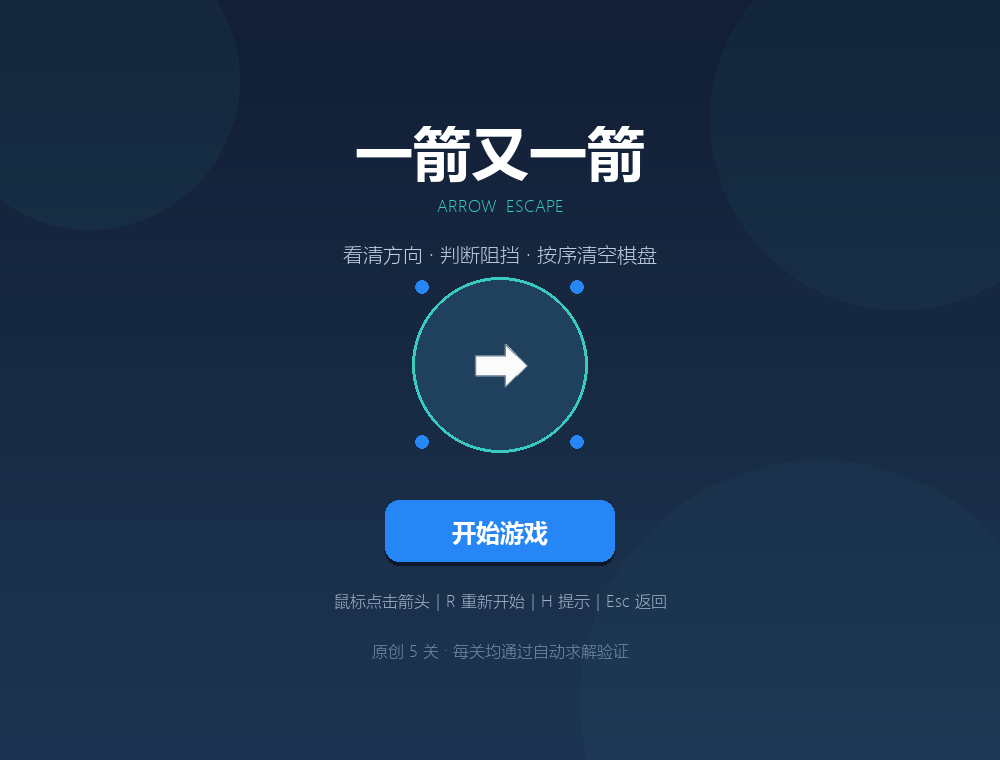
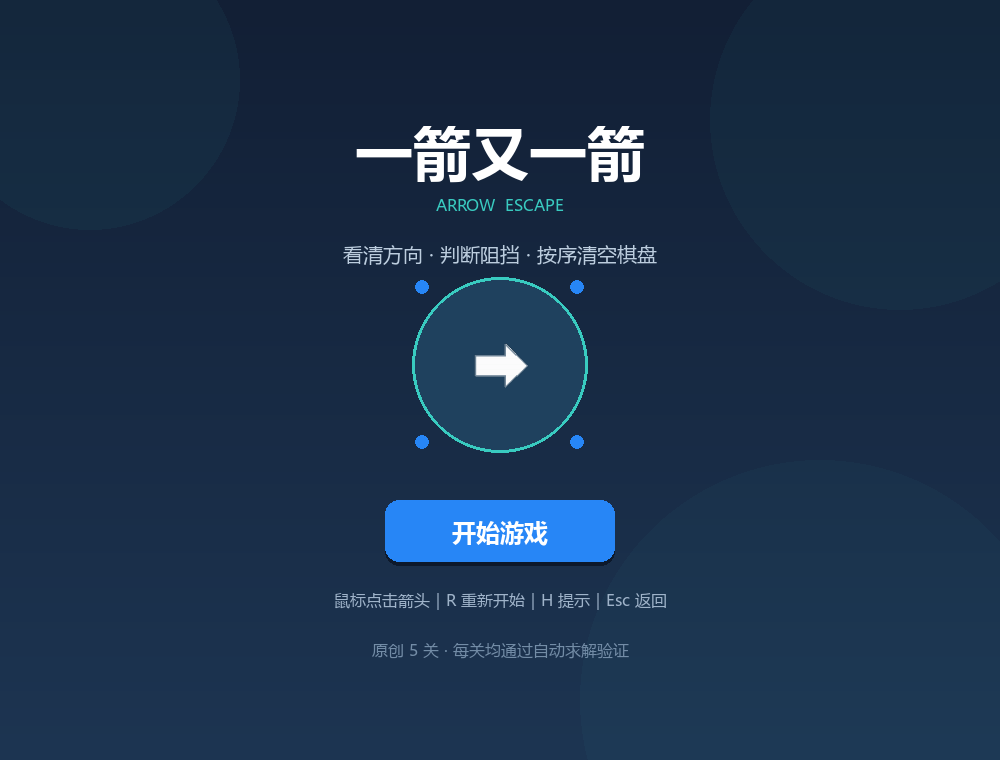
fix: 兼容Windows系统字体加载

diff --git a/arrow_game/app.py b/arrow_game/app.py
@@ -3,6 +3,7 @@
 from __future__ import annotations
 
 import math
+import os
 from dataclasses import dataclass
 from pathlib import Path
 
@@ -35,7 +36,11 @@ WHITE = (255, 255, 255)
 
 
 def make_font(size: int, bold: bool = False) -> pygame.font.Font:
-    """优先选择包含中文字符的系统字体。"""
+    """优先选择包含中文字符的系统字体。
+
+    某些 Windows + Python 3.13 环境下，Pygame 的 ``SysFont`` 无法正确
+    处理字体名称列表，因此这里逐个查找字体文件，再交给 ``Font`` 加载。
+    """
 
     candidates = [
         "Microsoft YaHei UI",
@@ -44,7 +49,35 @@ def make_font(size: int, bold: bool = False) -> pygame.font.Font:
         "Noto Sans CJK SC",
         "Arial Unicode MS",
     ]
-    return pygame.font.SysFont(candidates, size, bold=bold)
+
+    # Windows 常见中文字体直接按文件加载，可绕开部分环境中损坏的
+    # Pygame 系统字体索引（用户截图中的 splitext TypeError 即来自该索引）。
+    if os.name == "nt":
+        font_directory = Path(os.environ.get("WINDIR", "C:/Windows")) / "Fonts"
+        filenames = (
+            ["msyhbd.ttc", "msyh.ttc", "simhei.ttf"]
+            if bold
+            else ["msyh.ttc", "msyhbd.ttc", "simhei.ttf"]
+        )
+        for filename in filenames:
+            font_path = font_directory / filename
+            if font_path.is_file():
+                try:
+                    return pygame.font.Font(str(font_path), size)
+                except (OSError, pygame.error):
+                    continue
+
+    for candidate in candidates:
+        try:
+            font_path = pygame.font.match_font(candidate, bold=bold)
+        except (OSError, TypeError, ValueError):
+            # 系统字体表中存在异常条目时继续尝试下一个候选字体。
+            continue
+        if font_path:
+            return pygame.font.Font(font_path, size)
+
+    # 极少数系统没有上述中文字体时，仍保证程序可以启动。
+    return pygame.font.Font(None, size)
 
 
 def draw_text(

diff --git a/tests/test_app_flow.py b/tests/test_app_flow.py
@@ -8,7 +8,7 @@ os.environ.setdefault("PYGAME_HIDE_SUPPORT_PROMPT", "1")
 
 import pygame  # noqa: E402
 
-from arrow_game.app import GameApp  # noqa: E402
+from arrow_game.app import GameApp, make_font  # noqa: E402
 from arrow_game.core import find_solution  # noqa: E402
 
 
@@ -50,6 +50,12 @@ class AppFlowTests(unittest.TestCase):
             with self.subTest(state=state):
                 self.app.state = state
                 self.app.draw()
+
+    def test_font_loader_returns_a_usable_font(self) -> None:
+        font = make_font(24, bold=True)
+        rendered = font.render("一箭又一箭", True, (255, 255, 255))
+        self.assertGreater(rendered.get_width(), 0)
+        self.assertGreater(rendered.get_height(), 0)
 
 
 if __name__ == "__main__":

diff --git a/BLOG.md b/BLOG.md
@@ -2,11 +2,11 @@
 
 | 项目内容 | 内容 |
 | --- | --- |
-| 这个作业属于哪个课程 | **【提交前填写课程名称与链接】** |
-| 这个作业要求在哪里 | **【提交前填写作业链接】** |
+| 这个作业属于哪个课程 | [2026 年春季软件工程与软件工程实践](https://edu.cnblogs.com/campus/fzu/2026-01SoftwareEngineeringandSoftwareEngineeringPractice/) |
+| 这个作业要求在哪里 | [个人作业——AIGC 软件开发初体验](https://edu.cnblogs.com/campus/fzu/2026-01SoftwareEngineeringandSoftwareEngineeringPractice/homework/16718) |
 | 这个作业的目标 | 使用 Python 和 AIGC 完成“一箭又一箭”小游戏 |
-| 学号 | **【提交前填写学号】** |
-| GitHub 仓库 | **【上传后填写仓库链接】** |
+| 学号 | 102401514 |
+| GitHub 仓库 | [Sqarxx/arrow-escape-pygame](https://github.com/Sqarxx/arrow-escape-pygame) |
 
 ## 1. 项目展示
 
@@ -106,7 +106,7 @@ return None
 | 路径检测与测试 | Codex | 设计方向枚举、棋盘字典和统一的逐格检测循环，并为边缘情况生成测试 | T01～T03 首轮通过，四方向不需要重复代码 | 检查起点和边界条件，确认不会把自身算作阻挡 |
 | 关卡设计 | Codex | 生成 5 个关卡并实现 DFS 求解器 | 首轮发现第 4、5 关无解，测试返回 `None` | 分析出相向箭头死锁，修改 3 支箭头方向后全部可解 |
 | 界面与碰撞动画 | Codex | 生成飞出、晃动、变色、连线和提示文字，并输出真实截图 | 功能可用，但首次截图有装饰重叠和勾号缺字 | 调整装饰位置，并将字体勾号改为 Pygame 线段绘制 |
-| 状态流程测试 | Codex | 使用 SDL 虚拟显示器模拟通关、连续失误、重开和五种界面绘制 | 15 项测试全部通过 | 调整测试中的动画推进时间，使其符合实际操作节奏 |
+| 状态流程测试 | Codex | 使用 SDL 虚拟显示器模拟通关、连续失误、重开和五种界面绘制 | 包括字体兼容检查在内的 16 项测试全部通过 | 调整测试中的动画推进时间，使其符合实际操作节奏 |
 
 更完整的输入摘要、首轮失败结果与修改记录保存在仓库的 `AIGC_LOG.md`。
 
@@ -123,7 +123,7 @@ return None
 | T05 | 失误次数耗尽 | 显示失败并允许重开 | 状态进入 `failed`，重试按钮正常 | 是 |
 | T06 | 游戏中重新开始 | 布局与机会恢复 | 状态键和初始值完全一致 | 是 |
 
-最终结果为 15 项全部通过；5 个关卡均找到完整解序列。详细测试记录见 `TEST_REPORT.md`。
+最终结果为 16 项全部通过；5 个关卡均找到完整解序列。详细测试记录见 `TEST_REPORT.md`。
 
 ## 6. PSP 表格
 

diff --git a/README.md b/README.md
@@ -22,7 +22,7 @@
 - 失误机会、剩余箭头、当前关卡和用时显示；
 - 5 个原创关卡，全部由内置求解器自动验证可通关；
 - 重新开始、键盘快捷键和“提示一步”附加功能；
-- 核心规则与界面分离，包含 15 项自动化测试。
+- 核心规则与界面分离，包含 16 项自动化测试。
 
 ## 开发环境
 
@@ -83,7 +83,7 @@ return None
 python -m unittest discover -v
 ```
 
-当前共 15 项测试，覆盖畅通、阻挡、四个边界方向、通关、失败、重开、关卡可解性和界面状态流。项目最终验证结果为 `OK`，详见 [TEST_REPORT.md](TEST_REPORT.md)。
+当前共 16 项测试，覆盖畅通、阻挡、四个边界方向、通关、失败、重开、字体兼容、关卡可解性和界面状态流。项目最终验证结果为 `OK`，详见 [TEST_REPORT.md](TEST_REPORT.md)。
 
 重新生成 README 截图：
 

diff --git a/AIGC_LOG.md b/AIGC_LOG.md
@@ -62,7 +62,7 @@ Ran 11 tests ... OK
 | --- | --- |
 | 我的要求 | 除规则单元测试外，还要验证真正的界面状态能进入通关页、失败页和重开状态。 |
 | AI 完成 | 使用 SDL 虚拟显示器创建 `GameApp`，按求解序列逐个点击箭头；另外连续点击被阻挡箭头 3 次，并测试五种界面都能绘制。 |
-| 实际效果 | 15 项测试全部通过，测试不需要人工点击窗口，适合提交前重复执行。 |
+| 实际效果 | 加入字体兼容回归测试后，16 项测试全部通过；测试不需要人工点击窗口，适合提交前重复执行。 |
 | 人工判断/修改 | 将每次飞行动画推进 0.6 秒后再点下一支箭头，保证测试过程与真实界面的“动画期间禁止重复点击”规则一致。 |
 
 ## 使用 AIGC 后的总结

diff --git a/TEST_REPORT.md b/TEST_REPORT.md
@@ -35,12 +35,13 @@ python main.py --capture-screenshots docs/screenshots
 | 四方向覆盖 | 每个关卡都包含上、下、左、右 |
 | 关卡可解性 | 深度优先搜索为 5 关都找到完整解序列 |
 | 界面渲染 | 开始、游戏、通关、失败、全部通关五种状态均无异常 |
+| Windows 字体兼容 | 绕过异常的 Pygame 系统字体索引，直接加载微软雅黑字体文件，中文渲染正常 |
 | README 截图 | 4 张 PNG 成功生成并人工检查，无文字重叠或字体缺失 |
 
 ## 最终自动测试输出摘要
 
 ```text
-Ran 15 tests in 1.157s
+Ran 16 tests in 2.360s
 
 OK
 ```
